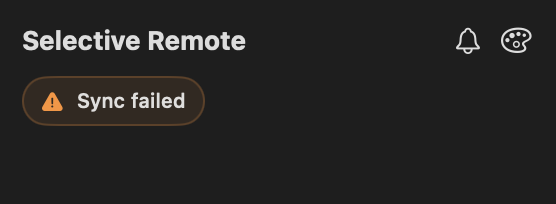
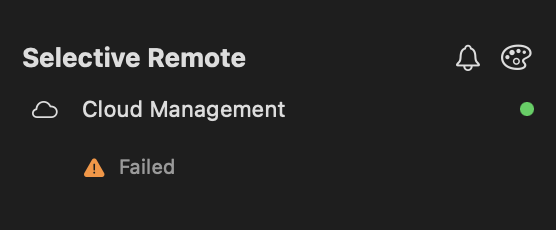
Place sync status with Cloud navigation

diff --git a/Sources/SelectiveRemote/SyncStatusUtilityView.swift b/Sources/SelectiveRemote/SyncStatusUtilityView.swift
@@ -2,6 +2,7 @@ import SwiftUI
 
 struct SyncStatusUtilityDescriptor {
     let title: String
+    let compactTitle: String
     let symbolName: String
     let tint: Color
 
@@ -9,46 +10,57 @@ struct SyncStatusUtilityDescriptor {
         switch lifecycle {
         case .synced:
             title = english ? "Synced" : "Синхронизировано"
+            compactTitle = title
             symbolName = "checkmark.circle.fill"
             tint = .green
         case .syncing:
             title = english ? "Syncing…" : "Синхронизация…"
+            compactTitle = title
             symbolName = "arrow.triangle.2.circlepath"
             tint = .accentColor
         case .unknown:
             title = english ? "Status unknown" : "Состояние неизвестно"
+            compactTitle = english ? "Unknown" : "Неизвестно"
             symbolName = "questionmark.circle"
             tint = .secondary
         case .error:
             title = english ? "Sync failed" : "Ошибка синхронизации"
+            compactTitle = english ? "Failed" : "Ошибка"
             symbolName = "exclamationmark.triangle.fill"
             tint = .orange
         case .conflict:
             title = english ? "Conflict" : "Конфликт"
+            compactTitle = title
             symbolName = "exclamationmark.triangle.fill"
             tint = .orange
         case .security:
             title = english ? "Action required" : "Требуется действие"
+            compactTitle = title
             symbolName = "exclamationmark.triangle.fill"
             tint = .orange
         case .offline:
             title = english ? "Offline" : "Нет сети"
+            compactTitle = title
             symbolName = "wifi.slash"
             tint = .secondary
         case .pending:
             title = english ? "Awaiting confirmation" : "Ожидает подтверждения"
+            compactTitle = english ? "Pending" : "Ожидает проверки"
             symbolName = "clock"
             tint = .secondary
         case .signedOut:
             title = english ? "Sign in required" : "Требуется вход"
+            compactTitle = english ? "Sign in" : "Нужен вход"
             symbolName = "person.crop.circle.badge.xmark"
             tint = .secondary
         case .locked:
             title = english ? "Unlock required" : "Требуется разблокировка"
+            compactTitle = english ? "Unlock" : "Разблокировать"
             symbolName = "lock.fill"
             tint = .secondary
         case .disabled:
             title = english ? "Sync disabled" : "Синхронизация выключена"
+            compactTitle = english ? "Disabled" : "Выключена"
             symbolName = "pause.circle"
             tint = .secondary
         }
@@ -67,16 +79,13 @@ struct SyncStatusUtilityView: View {
                 Image(systemName: descriptor.symbolName)
                     .foregroundStyle(descriptor.tint)
                     .accessibilityHidden(true)
-                Text(descriptor.title)
-                    .foregroundStyle(.primary)
+                Text(descriptor.compactTitle)
+                    .foregroundStyle(.secondary)
                     .lineLimit(1)
             }
-            .font(.caption.weight(.medium))
-            .padding(.horizontal, 9)
-            .frame(height: 25)
-            .background(descriptor.tint.opacity(0.09), in: Capsule())
-            .overlay(Capsule().strokeBorder(descriptor.tint.opacity(0.22)))
-            .contentShape(Capsule())
+            .font(.caption)
+            .frame(minHeight: 22)
+            .contentShape(Rectangle())
         }
         .buttonStyle(.plain)
         .accessibilityLabel(english ? "Sync status: \(descriptor.title)" : "Состояние синхронизации: \(descriptor.title)")

diff --git a/Tests/SelectiveRemoteTests/SyncStatusUtilityRenderedTests.swift b/Tests/SelectiveRemoteTests/SyncStatusUtilityRenderedTests.swift
@@ -18,21 +18,30 @@ struct SyncStatusUtilityRenderedTests {
             for english in [false, true] {
                 for scheme in [ColorScheme.light, .dark] {
                     for width in [220, 280, 360] {
-                        let view = VStack(alignment: .leading, spacing: 10) {
+                        let view = VStack(alignment: .leading, spacing: 11) {
                             HStack {
                                 Text("Selective Remote").font(.headline)
                                 Spacer()
                                 Image(systemName: "bell")
                                 Image(systemName: "paintpalette")
                             }
+                            HStack(spacing: 8) {
+                                Image(systemName: "cloud").frame(width: 22)
+                                Text(english ? "Cloud Management" : "Управление Cloud")
+                                    .lineLimit(1)
+                                Spacer(minLength: 2)
+                                Circle().fill(Color.green).frame(width: 7, height: 7)
+                            }
+                            .font(.subheadline)
                             SyncStatusUtilityView(lifecycle: lifecycle, english: english, onOpen: {})
-                            Spacer()
+                                .padding(.leading, 30)
+                                .frame(maxWidth: .infinity, alignment: .leading)
                         }
                         .padding(12)
-                        .frame(width: CGFloat(width), height: 102)
+                        .frame(width: CGFloat(width), height: 115)
                         .preferredColorScheme(scheme)
                         let hosting = NSHostingView(rootView: view)
-                        hosting.frame = CGRect(x: 0, y: 0, width: width, height: 102)
+                        hosting.frame = CGRect(x: 0, y: 0, width: width, height: 115)
                         let window = NSWindow(contentRect: hosting.frame, styleMask: [.borderless],
                                               backing: .buffered, defer: false)
                         window.appearance = NSAppearance(named: scheme == .dark ? .darkAqua : .aqua)
@@ -47,7 +56,7 @@ struct SyncStatusUtilityRenderedTests {
                         ))
                         let bitmap = NSBitmapImageRep(cgImage: image)
                         window.orderOut(nil)
-                        #expect(bitmap.colorAt(x: width / 2, y: 44) != nil)
+                        #expect(bitmap.colorAt(x: width / 2, y: 76) != nil)
                         if let output {
                             let filename = "\(name)-\(english ? "en" : "ru")-\(scheme == .dark ? "graphite" : "light")-\(width).png"
                             let url = URL(fileURLWithPath: output).appending(path: filename)

diff --git a/Tests/SelectiveRemoteTests/SyncStatusUtilityTests.swift b/Tests/SelectiveRemoteTests/SyncStatusUtilityTests.swift
@@ -5,17 +5,19 @@ import Testing
 struct SyncStatusUtilityTests {
     @Test("Typed lifecycle produces concise RU and EN service status")
     func localizedStates() {
-        let cases: [(SyncLifecycle, String, String, String)] = [
-            (.synced, "Синхронизировано", "Synced", "checkmark.circle.fill"),
-            (.syncing, "Синхронизация…", "Syncing…", "arrow.triangle.2.circlepath"),
-            (.unknown, "Состояние неизвестно", "Status unknown", "questionmark.circle"),
-            (.error, "Ошибка синхронизации", "Sync failed", "exclamationmark.triangle.fill"),
-            (.conflict, "Конфликт", "Conflict", "exclamationmark.triangle.fill"),
-            (.security, "Требуется действие", "Action required", "exclamationmark.triangle.fill"),
+        let cases: [(SyncLifecycle, String, String, String, String, String)] = [
+            (.synced, "Синхронизировано", "Synced", "Синхронизировано", "Synced", "checkmark.circle.fill"),
+            (.syncing, "Синхронизация…", "Syncing…", "Синхронизация…", "Syncing…", "arrow.triangle.2.circlepath"),
+            (.unknown, "Состояние неизвестно", "Status unknown", "Неизвестно", "Unknown", "questionmark.circle"),
+            (.error, "Ошибка синхронизации", "Sync failed", "Ошибка", "Failed", "exclamationmark.triangle.fill"),
+            (.conflict, "Конфликт", "Conflict", "Конфликт", "Conflict", "exclamationmark.triangle.fill"),
+            (.security, "Требуется действие", "Action required", "Требуется действие", "Action required", "exclamationmark.triangle.fill"),
         ]
-        for (lifecycle, russian, english, symbol) in cases {
+        for (lifecycle, russian, english, compactRussian, compactEnglish, symbol) in cases {
             #expect(SyncStatusUtilityDescriptor(lifecycle: lifecycle, english: false).title == russian)
             #expect(SyncStatusUtilityDescriptor(lifecycle: lifecycle, english: true).title == english)
+            #expect(SyncStatusUtilityDescriptor(lifecycle: lifecycle, english: false).compactTitle == compactRussian)
+            #expect(SyncStatusUtilityDescriptor(lifecycle: lifecycle, english: true).compactTitle == compactEnglish)
             #expect(SyncStatusUtilityDescriptor(lifecycle: lifecycle, english: true).symbolName == symbol)
         }
     }

diff --git a/Sources/SelectiveRemote/ContentView.swift b/Sources/SelectiveRemote/ContentView.swift
@@ -612,13 +612,6 @@ struct ContentView: View {
                     }
                 }
 
-                SyncStatusUtilityView(
-                    lifecycle: syncPresentation.aggregate,
-                    english: language.selection.usesEnglish,
-                    onOpen: { showsSyncCenter = true }
-                )
-                .frame(maxWidth: .infinity, alignment: .leading)
-
                 if model.availableUpdateManifest != nil ||
                     model.runningSessionCount > 0 ||
                     model.runningSSHTunnelCount > 0 {
@@ -770,6 +763,15 @@ struct ContentView: View {
                     ru: "Аккаунт, команды и Team Vaults",
                     en: "Account, Teams, and Team Vaults"
                 ))
+
+                SyncStatusUtilityView(
+                    lifecycle: syncPresentation.aggregate,
+                    english: language.selection.usesEnglish,
+                    onOpen: { showsSyncCenter = true }
+                )
+                .padding(.leading, 43)
+                .padding(.bottom, 4)
+                .frame(maxWidth: .infinity, alignment: .leading)
 
                 ForEach(primaryMainAreas) { area in
                     Button {

diff --git a/docs/evidence/sync-status-utility-033/README.md b/docs/evidence/sync-status-utility-033/README.md
@@ -11,9 +11,9 @@ SR_CAPTURE_SYNC_STATUS_MATRIX=/private/tmp/sync-status-rendered-matrix \
   swift test --filter SyncStatusUtilityRenderedTests
 ```
 
-The fixture uses the real `SyncStatusUtilityView` in a small synthetic header
-with the existing bell kept at the upper edge. It checks the status control's
-language, color, icon and narrow layout. It is not an installed-app or Owner
-manual acceptance result. The production `ContentView` keeps its existing
-Notification bell and existing Sync Center sheet; the status button is now in
-the service area under the sidebar header, outside primary navigation.
+The fixture uses the real `SyncStatusUtilityView` directly below a synthetic
+Cloud Management row, with the existing bell kept at the upper edge. It checks
+the status control's language, color, icon and narrow layout. It is not an
+installed-app or Owner manual acceptance result. The production `ContentView`
+keeps its existing Notification bell and Sync Center sheet; the status is a
+small secondary action attached to Cloud Management, outside primary navigation.
